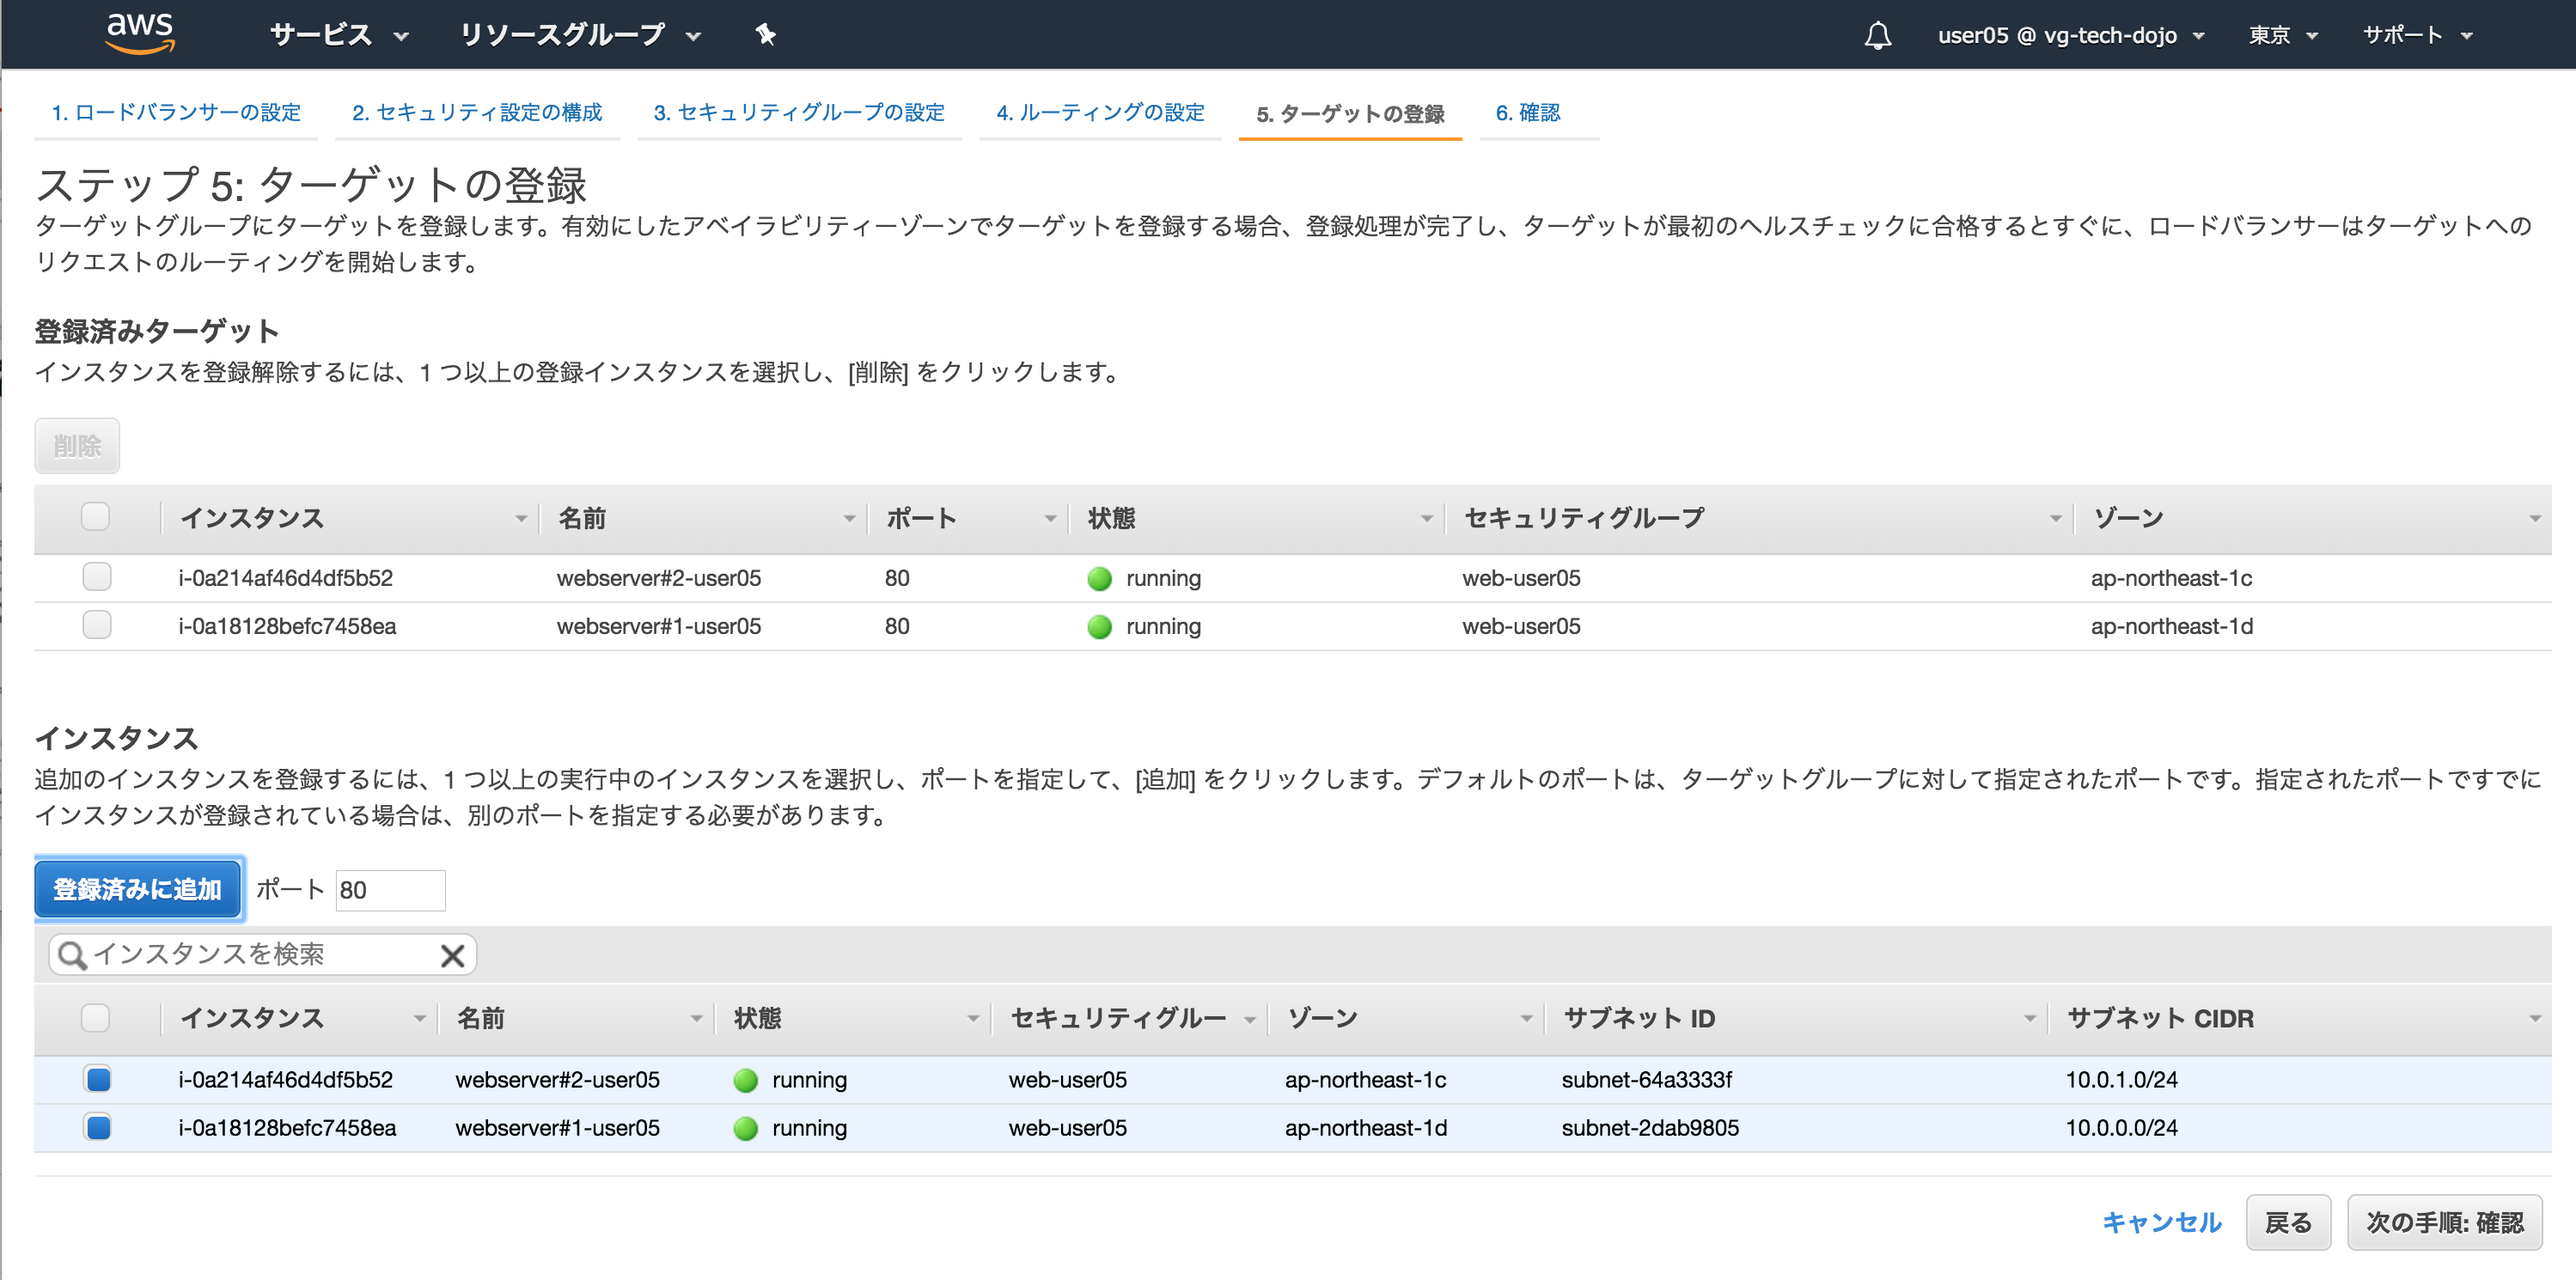
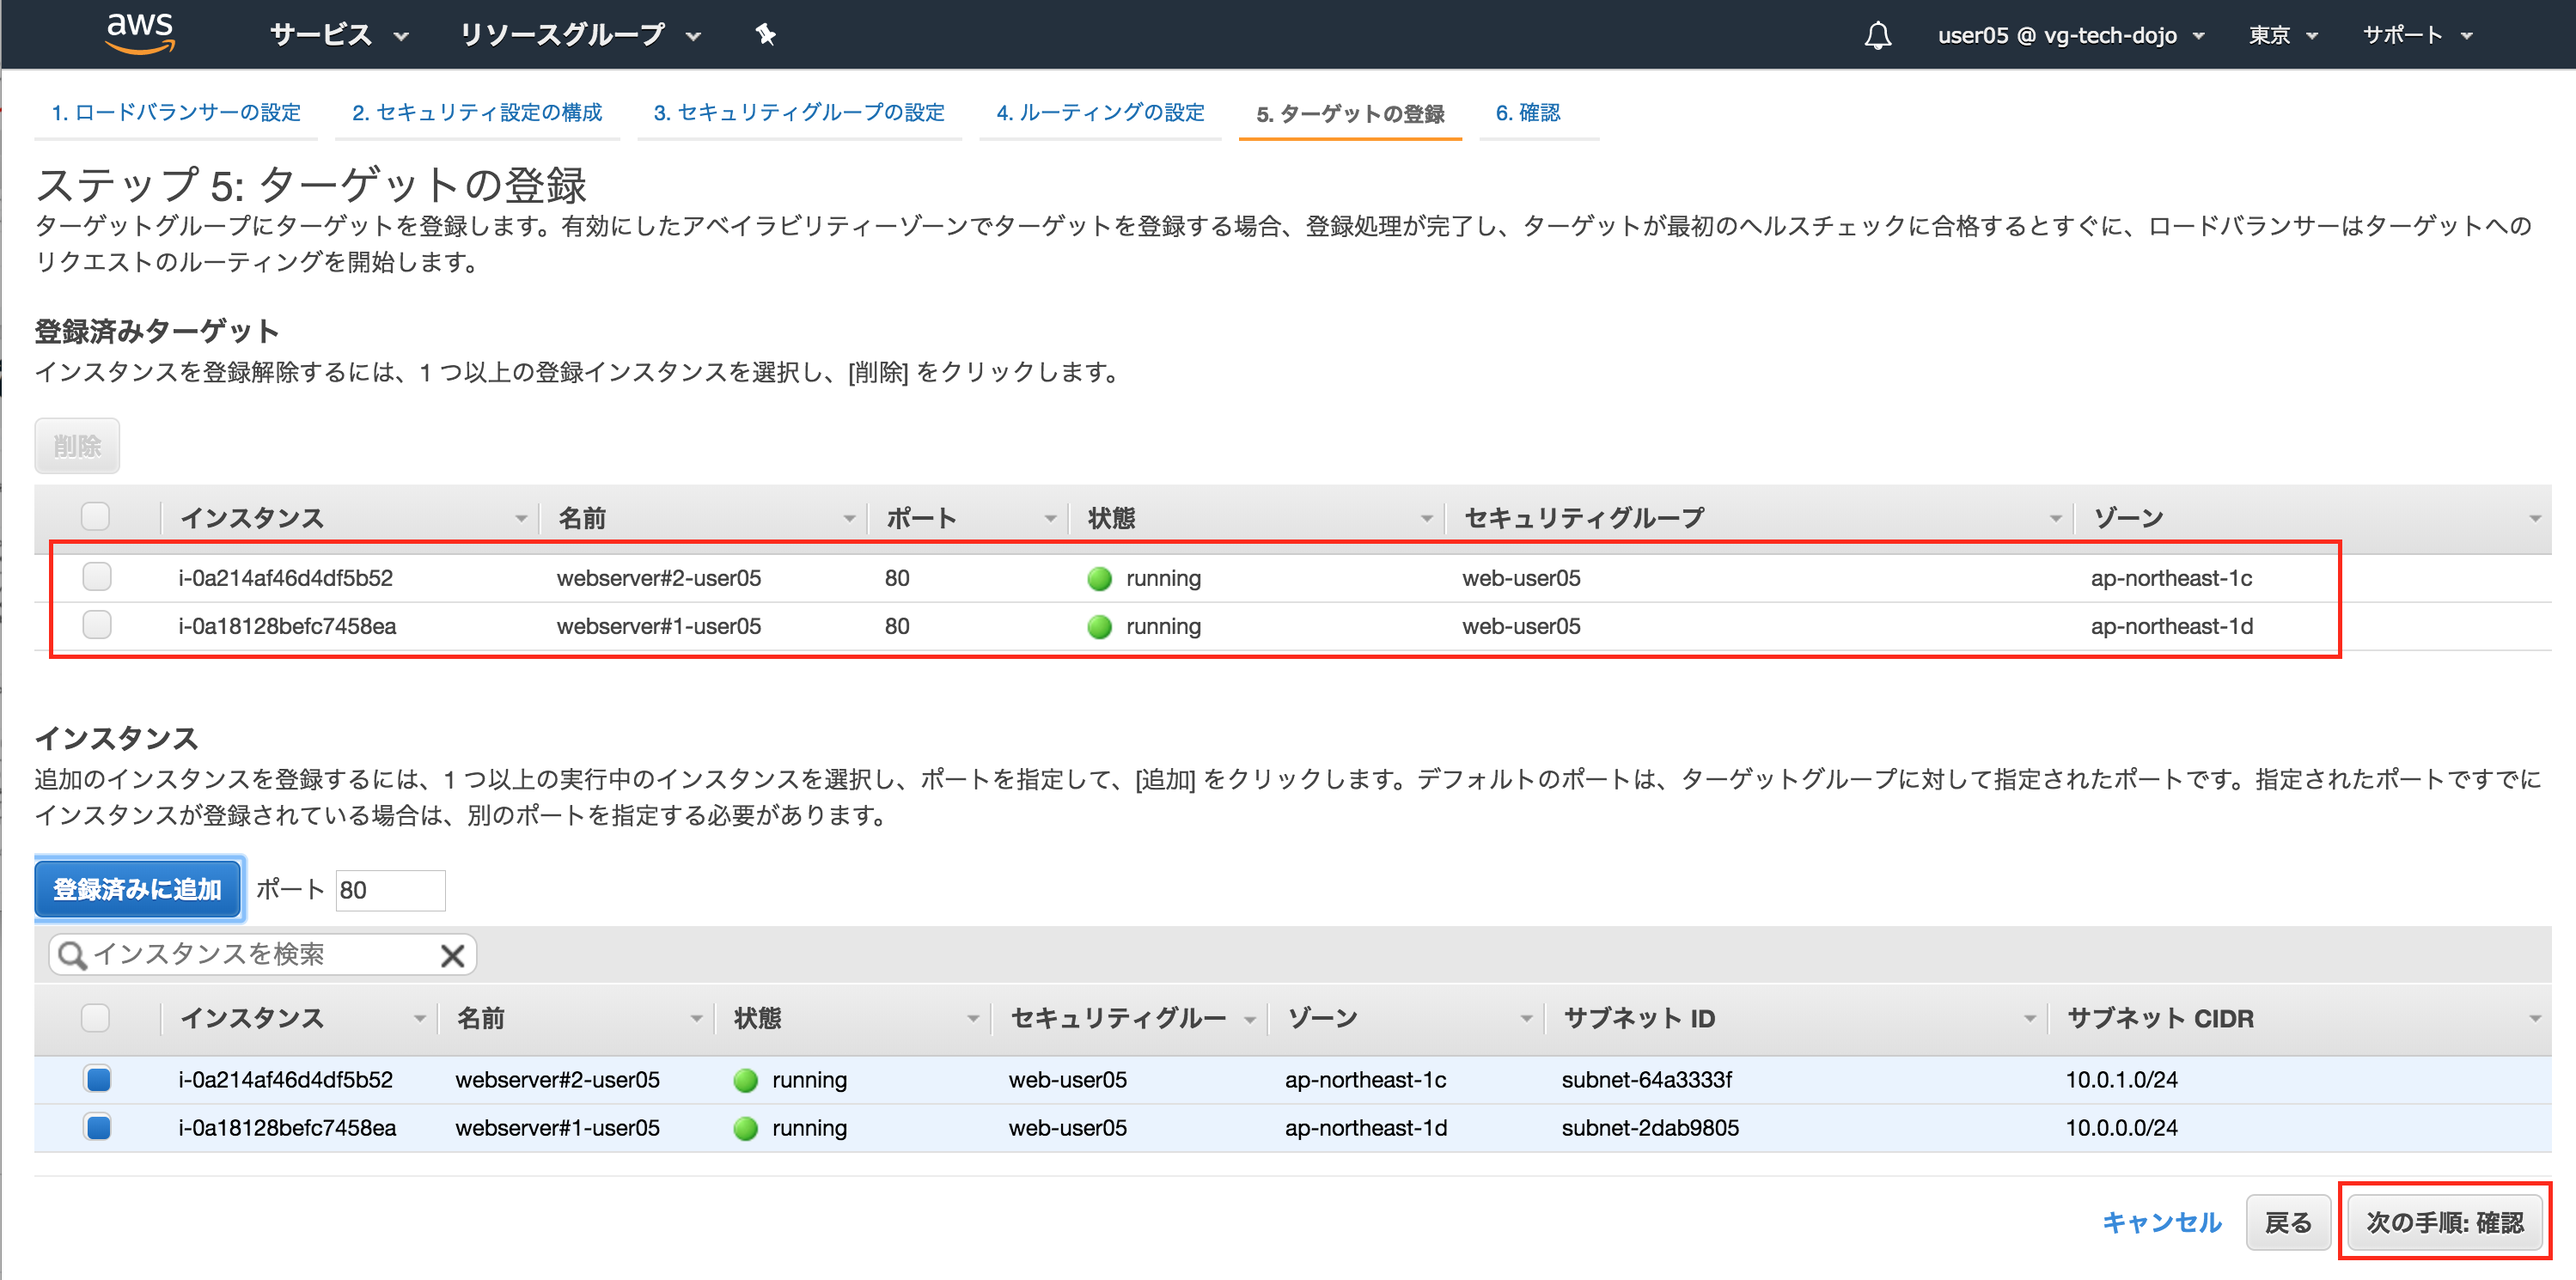
commit

diff --git a/Step-3.md b/Step-3.md
@@ -371,6 +371,8 @@ nameserver 10.0.0.2
 ![create-elb-7-1](./images/step-3/create-elb-7-1.png "CREATE-ELB-7-1")
 
 ----
+**登録済みターゲットに2つのパブリックネットワーク上に存在するインスタンスが存在すること。次の手順：確認ボタンを押下**
+
 ![create-elb-7-2](./images/step-3/create-elb-7-2.png "CREATE-ELB-7-2")
 
 ----
